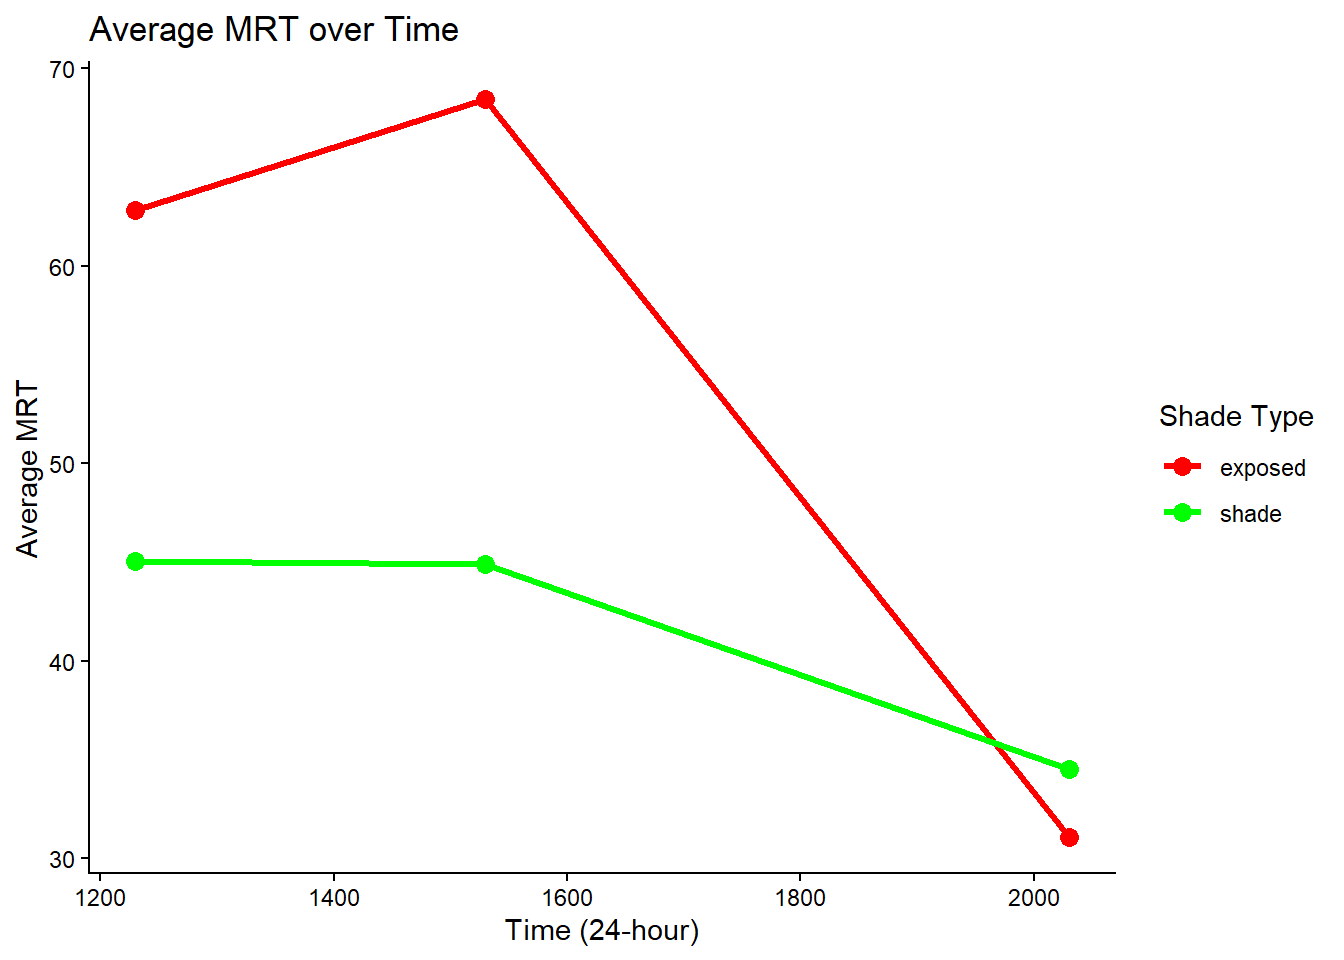
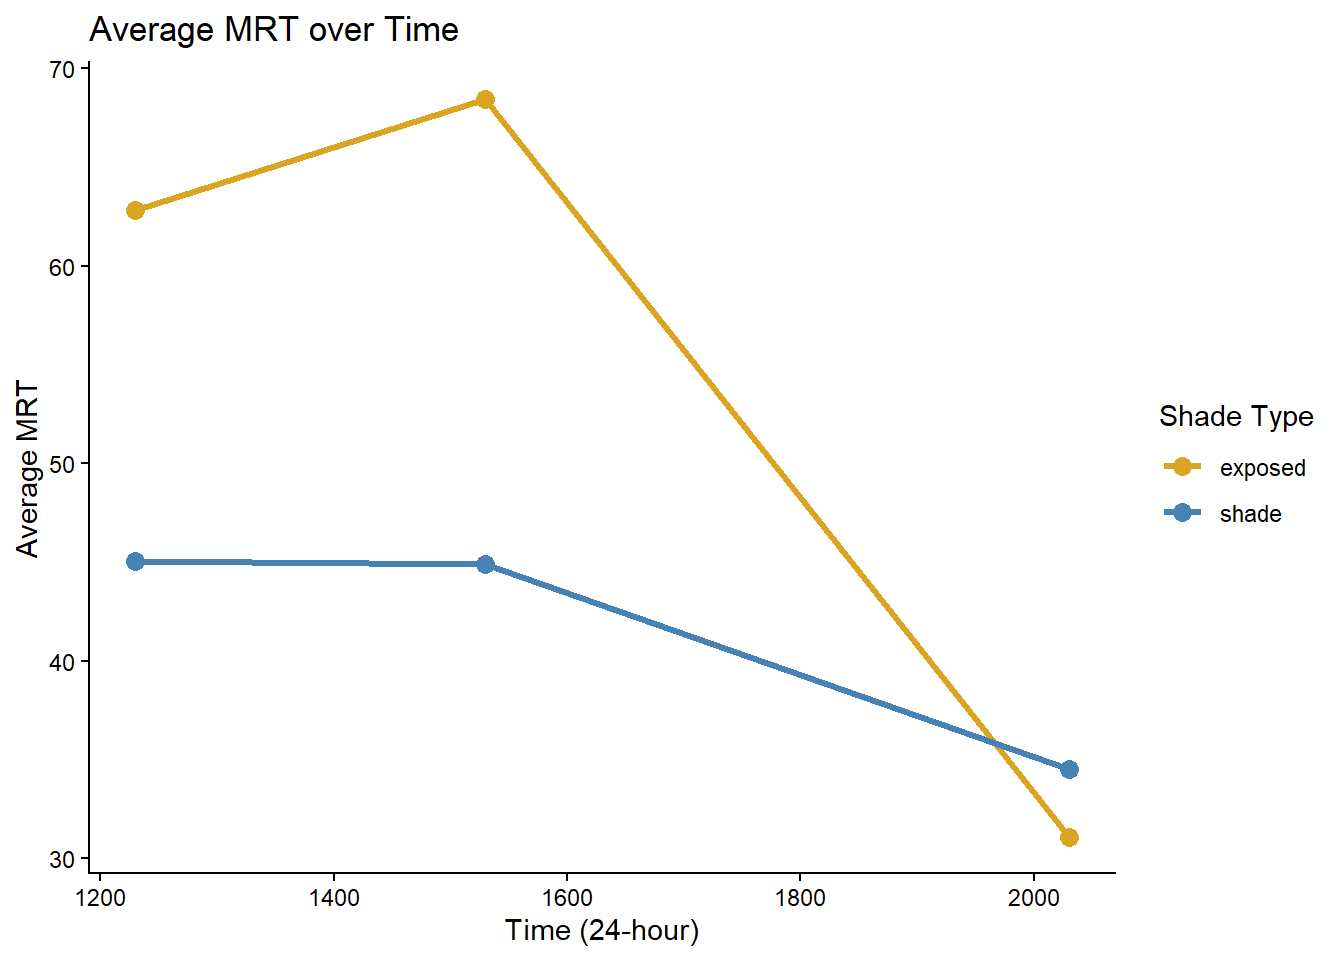
line chart - colors

diff --git a/MaRTy.html b/MaRTy.html
@@ -331,7 +331,7 @@ F-statistic: 31.18 on 9 and 119 DF,  p-value: &lt; 2.2e-16</code></pre>
 <span id="cb7-3"><a href="#cb7-3" aria-hidden="true" tabindex="-1"></a>    <span class="fu">geom_point</span>(<span class="at">size =</span> <span class="dv">3</span>) <span class="sc">+</span></span>
 <span id="cb7-4"><a href="#cb7-4" aria-hidden="true" tabindex="-1"></a>    <span class="fu">scale_color_manual</span>(</span>
 <span id="cb7-5"><a href="#cb7-5" aria-hidden="true" tabindex="-1"></a>        <span class="at">name =</span> <span class="st">"Shade Type"</span>, </span>
-<span id="cb7-6"><a href="#cb7-6" aria-hidden="true" tabindex="-1"></a>        <span class="at">values =</span> <span class="fu">c</span>(<span class="st">"red"</span>, <span class="st">"green"</span>)) <span class="sc">+</span></span>
+<span id="cb7-6"><a href="#cb7-6" aria-hidden="true" tabindex="-1"></a>        <span class="at">values =</span> <span class="fu">c</span>(<span class="st">"goldenrod"</span>, <span class="st">"steelblue"</span>)) <span class="sc">+</span></span>
 <span id="cb7-7"><a href="#cb7-7" aria-hidden="true" tabindex="-1"></a>    <span class="fu">labs</span>(</span>
 <span id="cb7-8"><a href="#cb7-8" aria-hidden="true" tabindex="-1"></a>        <span class="at">title =</span> <span class="st">"Average MRT over Time"</span>,</span>
 <span id="cb7-9"><a href="#cb7-9" aria-hidden="true" tabindex="-1"></a>        <span class="at">x =</span> <span class="st">"Time (24-hour)"</span>,</span>
